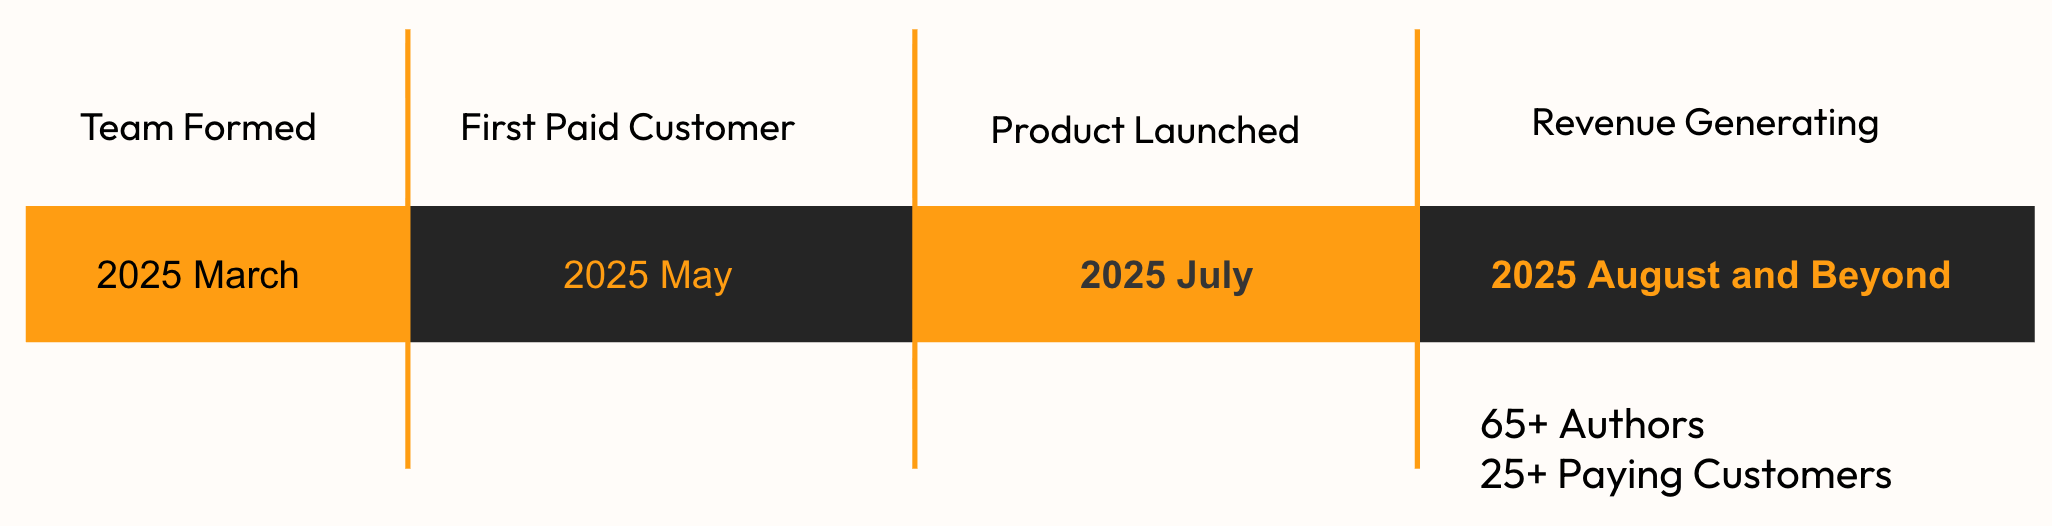
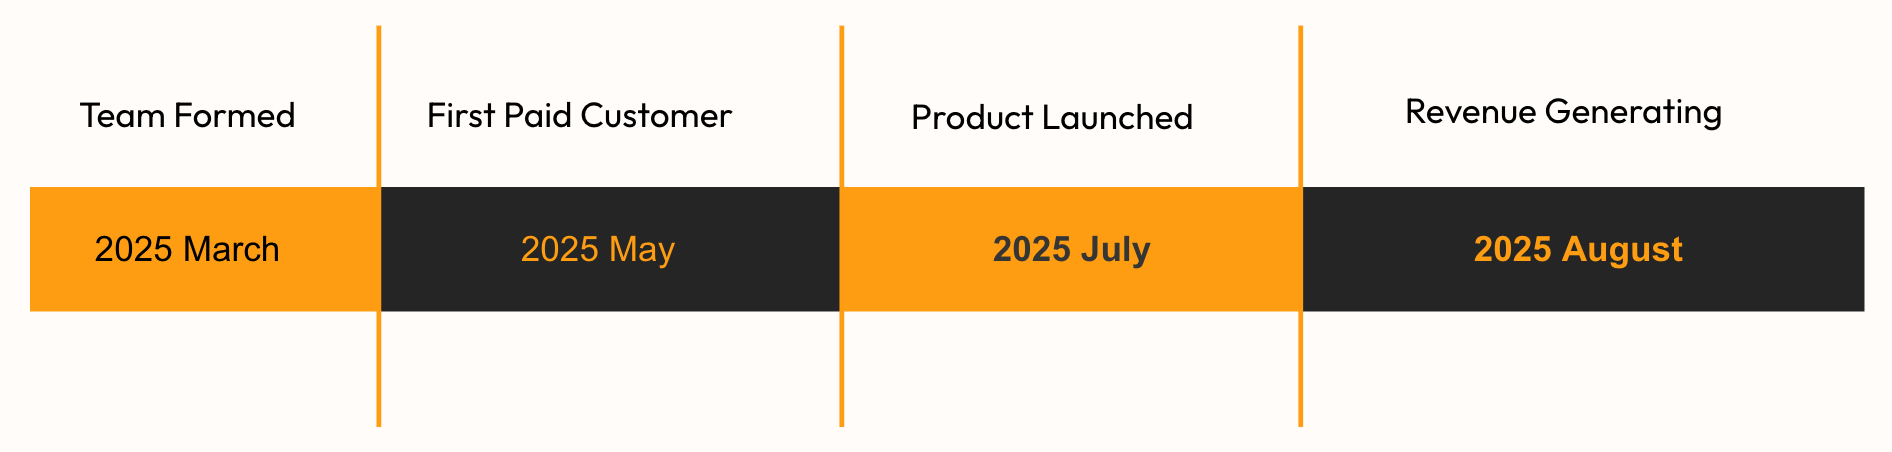
udpate

diff --git a/docs/entrepreneurship/entrepreneurship.html b/docs/entrepreneurship/entrepreneurship.html
@@ -43,6 +43,7 @@
             to { transform: rotate(360deg); }
         }
 
+
         .logo-container {
             display: flex;
             align-items: center;
@@ -272,7 +273,7 @@
         }
 
         .timeline-future {
-            max-width: 600px;
+            max-width: 1000px;
             margin: 0 auto;
             text-align: left;
         }
@@ -289,7 +290,7 @@
             list-style: none;
             padding: 0;
             display: grid;
-            grid-template-columns: 1fr 1fr;
+            grid-template-columns: repeat(3, 1fr);
             gap: 10px 30px;
         }
 
@@ -509,77 +510,111 @@
         <div class="logo-container">
             <img src="./AudioFlo_banner_small.png" alt="AudioFlo Banner" style="height: 240px; width: auto; max-width: 100%;">
         </div>
-        
-        <div class="vision-box">
-            <h2 class="vision-title">Built a SaaS company within 3 months</h2>
-            <p class="vision-text">
-                Building a SaaS company from zero to market has always been my entrepreneurial dream. In March 2025, I seized the opportunity to spend three intensive months founding AudioFlo, an AI-powered platform that helps indie authors produce professional audiobooks. <br><br>
-                
-                This comprehensive case study documents my complete founder journey across every critical business function: from initial market analysis and product design to full-stack development, strategic marketing, and business development.<br><br>
 
-                I'm sharing these real-world insights and methodologies with fellow entrepreneurs and startup leaders who understand the challenges of building something from nothing. This documentation showcases the strategic thinking and execution capabilities that drive successful product ventures.
+        <h1 style="font-size: 3rem; font-weight: 700; color: #1e293b; margin: 30px 0 10px 0; text-align: center;">I Built <a href="https://www.audioflo.ai" target="_blank" style="color: #ff9800; text-decoration: none;">AudioFlo.ai</a> From Concept to Profitability in 90 Days</h1>
+        <p style="font-size: 1.3rem; color: #64748b; margin-bottom: 40px; text-align: center; font-weight: 500; letter-spacing: 1px;">A Complete SaaS Case Study</p>
+
+        <div class="vision-box">
+            <p class="vision-text">
+                An honest look at the metrics, strategies, and lessons learned while building a SaaS company in 90 days. This case study shares the decisions that worked, the challenges faced, and the approach that eventually led to profitability.<br><br>
+
+                <strong>For:</strong> Entrepreneurs, founders, and business leaders seeking data-driven insights into rapid SaaS validation and growth execution.
             </p>
+        </div>
+    </section>
+
+    <!-- Book Covers Section -->
+    <section style="background: #f8f9fa; padding: 30px 20px;">
+        <div style="max-width: 1200px; margin: 0 auto; text-align: center;">
+            <h3 style="color: #1e293b; margin-bottom: 20px; font-size: 1.2rem; font-weight: 600;">Recent Audiobooks Produced by AudioFlo.ai</h3>
+            <div style="display: flex; justify-content: center; gap: 20px; flex-wrap: wrap;">
+                <img src="./books/1_cover.jpg" alt="Book Cover 1" style="height: 120px; width: auto; border-radius: 8px; box-shadow: 0 4px 12px rgba(0,0,0,0.15);">
+                <img src="./books/3_cover.jpg" alt="Book Cover 3" style="height: 120px; width: auto; border-radius: 8px; box-shadow: 0 4px 12px rgba(0,0,0,0.15);">
+                <img src="./books/5_cover.jpg" alt="Book Cover 5" style="height: 120px; width: auto; border-radius: 8px; box-shadow: 0 4px 12px rgba(0,0,0,0.15);">
+                <img src="./books/6_cover.jpg" alt="Book Cover 12" style="height: 120px; width: auto; border-radius: 8px; box-shadow: 0 4px 12px rgba(0,0,0,0.15);">
+                <img src="./books/15_cover.jpg" alt="Book Cover 15" style="height: 120px; width: auto; border-radius: 8px; box-shadow: 0 4px 12px rgba(0,0,0,0.15);">
+            </div>
         </div>
     </section>
 
     <!-- Metrics Section -->
     <section class="metrics-section">
-        <h3 style="text-align: center; color: #2c2c2c; margin-bottom: 50px; font-size: 2rem;">Key Metrics</h3>
+        <div style="max-width: 1200px; margin: 0 auto; padding: 0 20px;">
+            <h3 style="text-align: center; color: #2c2c2c; margin-bottom: 40px; font-size: 2rem;">Key Performance Metrics</h3>
 
-        <div class="hub-spoke-container">
-            <!-- Center Circle -->
-            <div class="center-circle">
-                <div class="center-value">2</div>
-                <div class="center-label">Person Team</div>
+            <div style="display: flex; gap: 40px; align-items: flex-start; flex-wrap: wrap; justify-content: center;">
+                <!-- Table on the left -->
+                <div style="flex: 1; min-width: 350px; max-width: 500px;">
+                    <h4 style="color: #1e293b; margin-bottom: 20px; font-size: 1.2rem; text-align: center;">Business Performance</h4>
+                    <div style="overflow-x: auto;">
+                        <table style="width: 100%; border-collapse: collapse; background: white; border-radius: 10px; overflow: hidden; box-shadow: 0 4px 15px rgba(0,0,0,0.1);">
+                            <thead>
+                                <tr style="background: #ff9800; color: white;">
+                                    <th style="padding: 15px; text-align: left; font-weight: 600;">Metric</th>
+                                    <th style="padding: 15px; text-align: center; font-weight: 600;">Industry</th>
+                                    <th style="padding: 15px; text-align: center; font-weight: 600;">AudioFlo</th>
+                                </tr>
+                            </thead>
+                            <tbody>
+                                <tr style="border-bottom: 1px solid #e2e8f0;">
+                                    <td style="padding: 25px 15px; font-weight: 600;">LTV:CAC</td>
+                                    <td style="padding: 25px 15px; text-align: center;">3:1</td>
+                                    <td style="padding: 25px 15px; text-align: center; color: #ff9800; font-weight: 600;">7:1</td>
+                                </tr>
+                                <tr style="border-bottom: 1px solid #e2e8f0;">
+                                    <td style="padding: 25px 15px; font-weight: 600;">Trial-to-Paid</td>
+                                    <td style="padding: 25px 15px; text-align: center;">15-25%</td>
+                                    <td style="padding: 25px 15px; text-align: center; color: #ff9800; font-weight: 600;">35.71%</td>
+                                </tr>
+                                <tr>
+                                    <td style="padding: 25px 15px; font-weight: 600;">Reg-to-Paid</td>
+                                    <td style="padding: 25px 15px; text-align: center;">1.5-3%</td>
+                                    <td style="padding: 25px 15px; text-align: center; color: #ff9800; font-weight: 600;">3%</td>
+                                </tr>
+                            </tbody>
+                        </table>
+                    </div>
+                </div>
+
+                <!-- Growth Metrics on the right -->
+                <div style="flex: 1; min-width: 350px; max-width: 500px;">
+                    <h4 style="color: #1e293b; margin-bottom: 20px; font-size: 1.2rem; text-align: center;">Growth & Efficiency</h4>
+                    <div style="overflow-x: auto;">
+                        <table style="width: 100%; border-collapse: collapse; background: white; border-radius: 10px; overflow: hidden; box-shadow: 0 4px 15px rgba(0,0,0,0.1);">
+                            <thead>
+                                <tr style="background: #ff9800; color: white;">
+                                    <th style="padding: 15px; text-align: center; font-weight: 600;" colspan="2">Customer & Revenue</th>
+                                </tr>
+                            </thead>
+                            <tbody>
+                                <tr style="border-bottom: 1px solid #e2e8f0;">
+                                    <td style="padding: 25px 15px; font-weight: 600;">Payback Period</td>
+                                    <td style="padding: 25px 15px; text-align: center; color: #ff9800; font-weight: 600;">First Transaction</td>
+                                </tr>
+                                <tr style="border-bottom: 1px solid #e2e8f0;">
+                                    <td style="padding: 25px 15px; font-weight: 600;">Customer Growth</td>
+                                    <td style="padding: 25px 15px; text-align: center; color: #ff9800; font-weight: 600;">42% Monthly</td>
+                                </tr>
+                                <tr>
+                                    <td style="padding: 25px 15px; font-weight: 600;">Customer Lifetime</td>
+                                    <td style="padding: 25px 15px; text-align: center; color: #ff9800; font-weight: 600;">3 months+</td>
+                                </tr>
+                            </tbody>
+                        </table>
+                    </div>
+                </div>
             </div>
 
-            <!-- Surrounding Circles -->
-            <div class="metric-circle circle-1">
-                <div class="circle-value">June 28th</div>
-                <div class="circle-label">Launch<br>Date</div>
-            </div>
+            <p style="text-align: center; margin: 40px auto 20px auto; max-width: 800px; color: #475569; line-height: 1.8; font-size: 1.1rem;">In March 2025, I spent three intensive months building <a href="https://www.audioflo.ai" target="_blank" style="color: #ff9800; text-decoration: none; font-weight: 600;">AudioFlo.ai</a> after discovering firsthand how complicated and expensive it is for indie authors to create audiobooks.</p>
 
-            <div class="metric-circle circle-2">
-                <div class="circle-value">$550</div>
-                <div class="circle-label">Monthly<br>Revenue</div>
-            </div>
-
-            <div class="metric-circle circle-3">
-                <div class="circle-value">65+</div>
-                <div class="circle-label">Users</div>
-            </div>
-
-            <div class="metric-circle circle-4">
-                <div class="circle-value">35.75%</div>
-                <div class="circle-label">Payment Conversion<br>Rate</div>
-            </div>
-
-            <div class="metric-circle circle-5">
-                <div class="circle-value">30 mins</div>
-                <div class="circle-label">Time to<br>Value</div>
-            </div>
-
-            <div class="metric-circle circle-6">
-                <div class="circle-value">57</div>
-                <div class="circle-label">Features<br>Shipped</div>
-            </div>
-
-            <div class="metric-circle circle-7">
-                <div class="circle-value">24</div>
-                <div class="circle-label">User Interviews</div>
-            </div>
-
-            <div class="metric-circle circle-8">
-                <div class="circle-value">99%</div>
-                <div class="circle-label">Uptime</div>
-            </div>
+            <p style="text-align: center; margin: 20px auto 20px auto; max-width: 800px; color: #475569; line-height: 1.8; font-size: 1.1rem;">Since launching in July 2025, I've had the privilege of helping <span style="color: #ff9800; font-weight: 600;">70+ indie authors</span> bring their stories to audio, producing over <span style="color: #ff9800; font-weight: 600;">500 hours</span> of audiobook content. Their feedback, along with insights from publishing industry professionals, has been invaluable in shaping the platform. Through continuous iteration based on real user needs, AudioFlo has evolved into a <span style="color: #ff9800; font-weight: 600;">self-sustaining business</span> that delivers meaningful value to authors while maintaining healthy metrics.</p>
         </div>
     </section>
 
     <!-- Timeline Section -->
     <section class="timeline-section">
         <div class="timeline-container">
-            <h2 class="timeline-title">Where is AudioFlo now?</h2>
+            <h2 class="timeline-title">Our Progress & What's Next</h2>
             <div class="timeline-image-wrapper">
                 <img src="./timeline.png" alt="AudioFlo Development Timeline" class="timeline-image">
             </div>
@@ -587,7 +622,6 @@
                 <h3 class="timeline-future-title">2025 August Beyond</h3>
                 <ul class="timeline-future-list">
                     <li>Full Autonomous Operation</li>
-                    <li>System runs completely hands-off without manual intervention</li>
                     <li>Self-sustaining revenue model with automated scaling</li>
                     <li>Organic growth through word-of-mouth and product excellence</li>
                 </ul>
@@ -598,7 +632,7 @@
     <!-- Chapters Section -->
     <section class="chapters-section">
         <div class="chapters-container">
-            <h2 class="chapters-title">How I built AudioFlo</h2>
+            <h2 class="chapters-title">The Journey Behind the Metrics</h2>
             <p class="chapters-intro">
                 Each chapter below represents a critical business perspective in the complete journey from customer discovery to marketing campaigns. Together, they form the comprehensive process of how I built AudioFlo.ai from concept to market. Click on any topic to dive into the detailed strategies, methodologies, and insights that shaped this entrepreneurial venture. I hope these real-world experiences will provide valuable guidance for your own startup journey.
             </p>
@@ -748,7 +782,7 @@
                             </div>
                         </div>
                         <div class="chapter-image">
-                            <img src="./chapter8/11.jpg" alt="marketing campaign" style="width: 100%; height: 100%; object-fit: cover; border-radius: 12px;">
+                            <img src="./chapter9/sales-funnel-stages.jpg" alt="marketing campaign" style="width: 100%; height: 100%; object-fit: cover; border-radius: 12px;">
                         </div>
                     </div>
                     <p class="chapter-description">

diff --git a/docs/entrepreneurship/chapter9/chapter9-revenue.html b/docs/entrepreneurship/chapter9/chapter9-revenue.html
@@ -339,15 +339,15 @@
                 <div style="color: #1e293b; font-size: 1rem; margin-bottom: 20px;">📊 User Growth Chart</div>
                 <div style="display: flex; justify-content: space-around; align-items: end; height: 200px; padding: 20px;">
                     <div style="text-align: center;">
-                        <div style="width: 80px; height: 40px; background: linear-gradient(135deg, #ff9800, #f57c00); border-radius: 4px; margin-bottom: 10px; display: flex; align-items: center; justify-content: center; color: white; font-weight: 600;">10</div>
+                        <div style="width: 80px; height: 40px; background: linear-gradient(135deg, #ff9800, #f57c00); border-radius: 4px; margin-bottom: 10px; display: flex; align-items: center; justify-content: center; color: white; font-weight: 600;">16</div>
                         <div style="font-size: 0.9rem; color: #1e293b; font-weight: 600;">Month 1</div>
                     </div>
                     <div style="text-align: center;">
-                        <div style="width: 80px; height: 100px; background: linear-gradient(135deg, #ff9800, #f57c00); border-radius: 4px; margin-bottom: 10px; display: flex; align-items: center; justify-content: center; color: white; font-weight: 600;">25</div>
+                        <div style="width: 80px; height: 100px; background: linear-gradient(135deg, #ff9800, #f57c00); border-radius: 4px; margin-bottom: 10px; display: flex; align-items: center; justify-content: center; color: white; font-weight: 600;">23</div>
                         <div style="font-size: 0.9rem; color: #1e293b; font-weight: 600;">Month 2</div>
                     </div>
                     <div style="text-align: center;">
-                        <div style="width: 80px; height: 140px; background: linear-gradient(135deg, #ff9800, #f57c00); border-radius: 4px; margin-bottom: 10px; display: flex; align-items: center; justify-content: center; color: white; font-weight: 600;">35</div>
+                        <div style="width: 80px; height: 140px; background: linear-gradient(135deg, #ff9800, #f57c00); border-radius: 4px; margin-bottom: 10px; display: flex; align-items: center; justify-content: center; color: white; font-weight: 600;">31</div>
                         <div style="font-size: 0.9rem; color: #1e293b; font-weight: 600;">Month 3</div>
                     </div>
                 </div>
